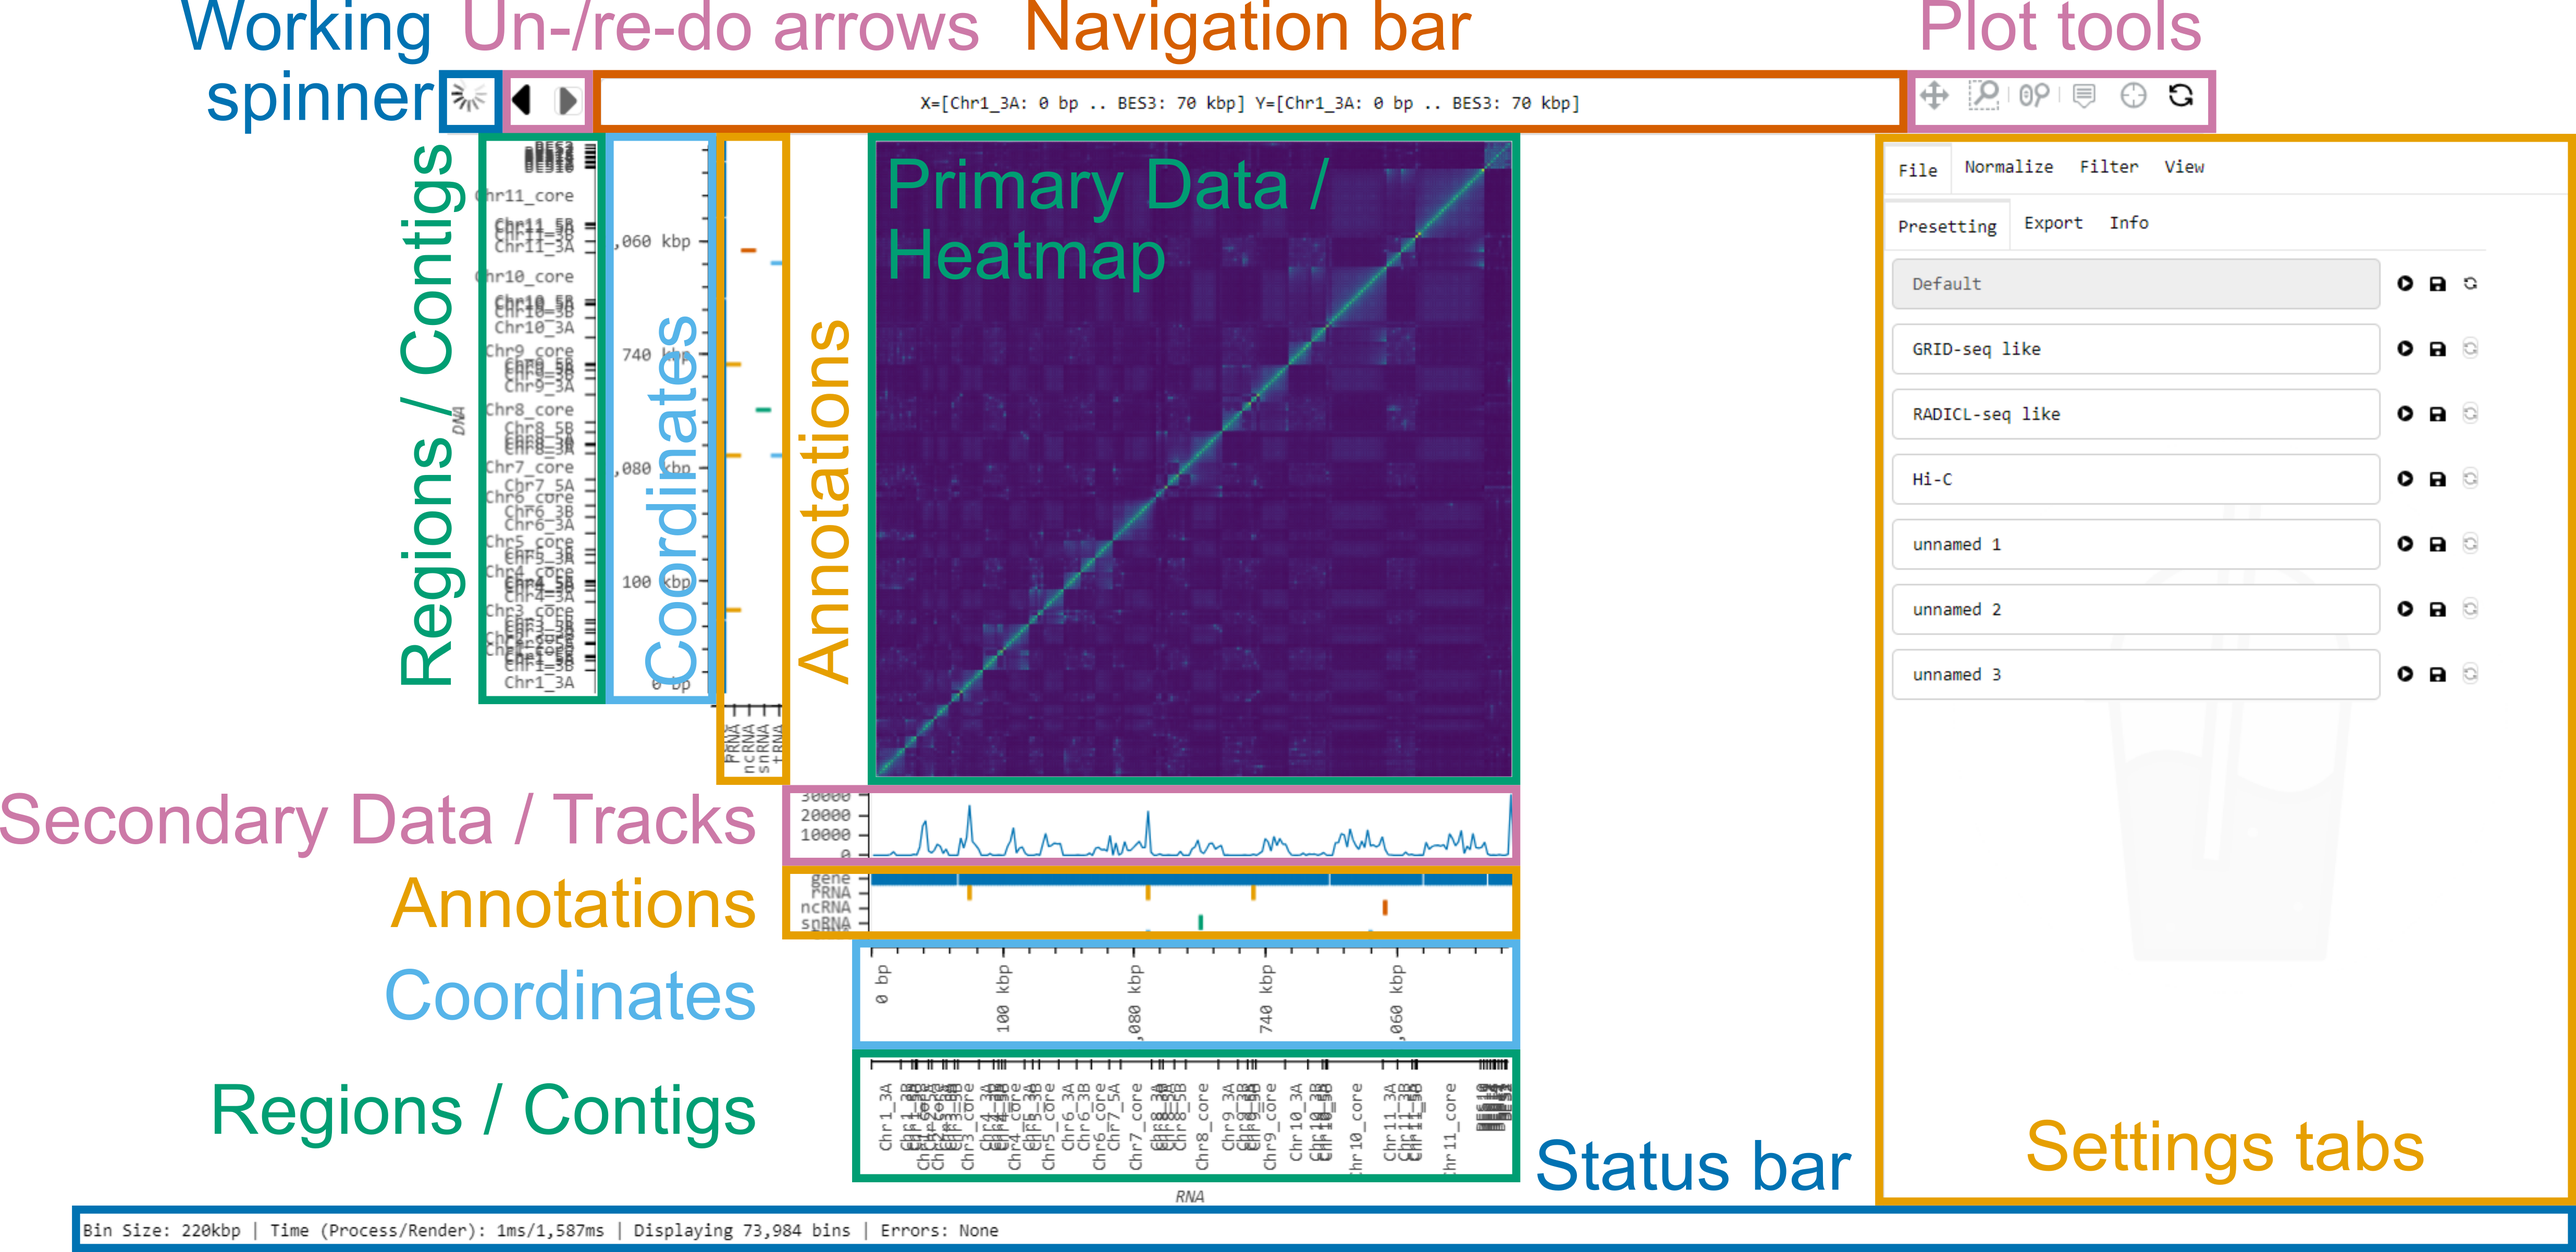
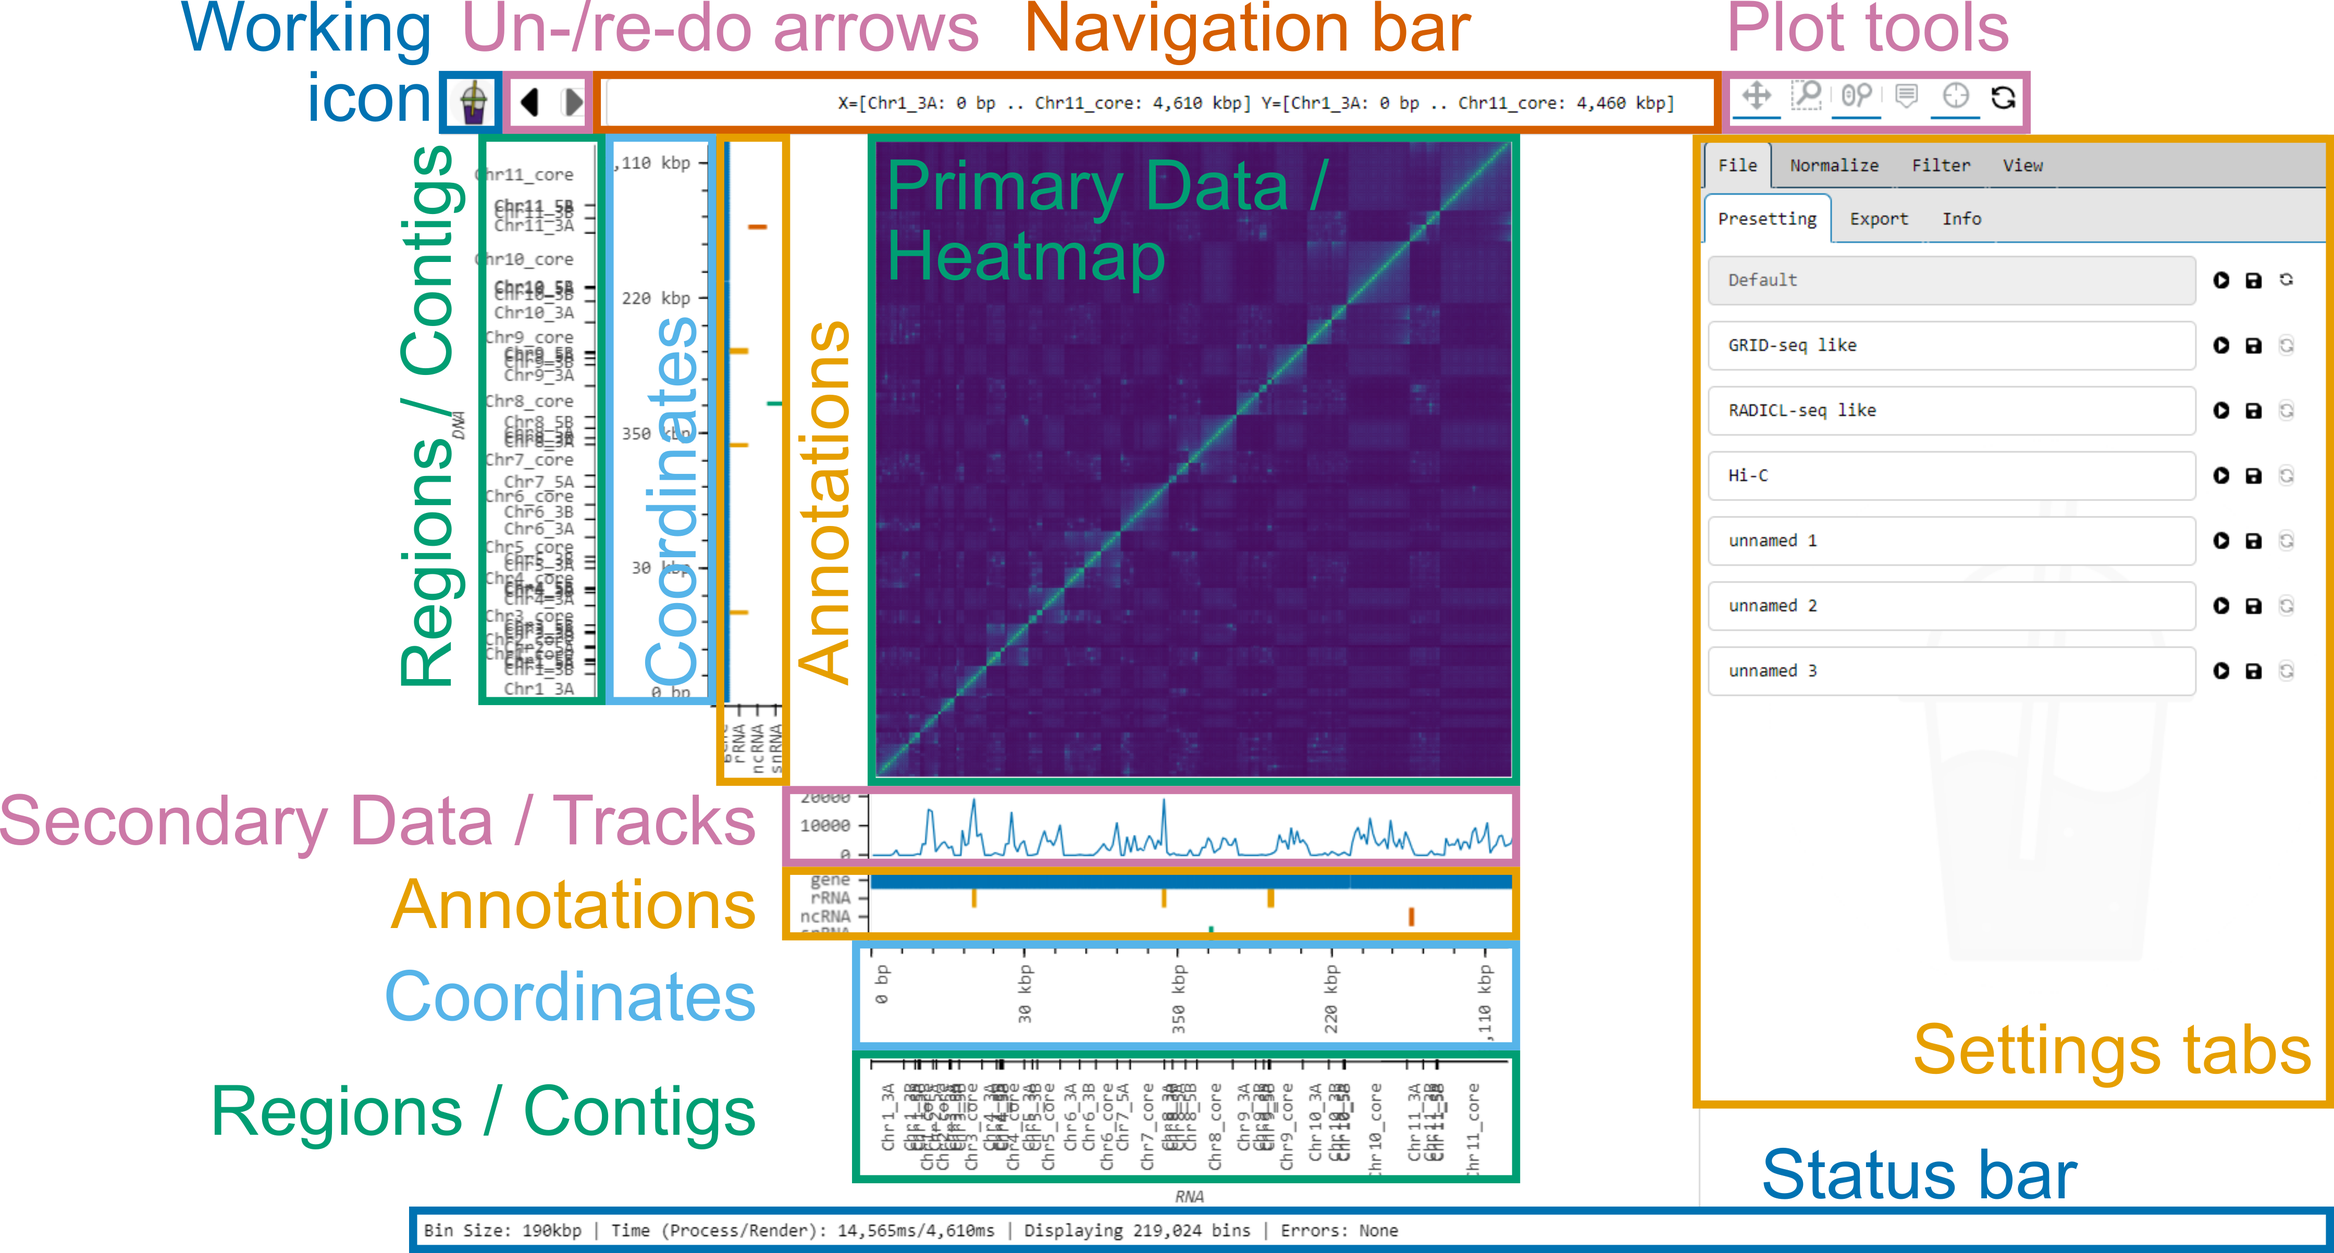
intermediate

diff --git a/biosmoother/static/css/styles.css b/biosmoother/static/css/styles.css
@@ -203,7 +203,6 @@ button {
     outline: 0;
     font-family: Consolas, 'Courier New', monospace !important;
     font-size: 11px !important;
-    cursor: pointer;
     border: solid;
     border-width: 1px;
     border-top-right-radius: 5px;
@@ -233,19 +232,19 @@ button {
 }
 
 .tab-header-1 {
-    background-color: #e5e5e5;
+    background-color: #cccccc;
 }
 .tab-header-2 {
-    background-color: #f2f2f2;
+    background-color: #e5e5e5;
 }
 .tab-header-3 {
-    background-color: #f2f2f2;
+    background-color: #e5e5e5;
 }
 
 .tab-button-active.tab-level-1 {
     border-color: #002f4d;
-    border-bottom-color: #f2f2f2;
-    background-color: #f2f2f2;
+    border-bottom-color: #e5e5e5;
+    background-color: #e5e5e5;
 }
 .tab-button-active.tab-level-2 {
     border-color: #0072b1;
@@ -262,6 +261,7 @@ button {
 .tab-button:hover:not(.tab-button-active):not(.tab-button-fill):not(.tab-button-spacer){
     background-color: white;
     font-weight: 900;
+    cursor: pointer;
 }
 
 label, input[type="radio"], input[type="checkbox"] {

diff --git a/biosmoother/bin/main_layout.py b/biosmoother/bin/main_layout.py
@@ -1531,6 +1531,7 @@ class MainLayout:
         self.chrom_layout = None
         self.chrom_layout_ploidy = None
         self.ploidy_file_in = None
+        self.ploidy_last_uploaded_filename = None
         self.next_element_id = 0
         self.download_session = None
 
@@ -2357,12 +2358,22 @@ class MainLayout:
             disabled=bin.global_variables.no_save
         )
 
+        self.ploidy_last_uploaded_filename = Div(text="No ploidy file has been uploaded yet.")
+        if len(self.session.get_value(["settings", "normalization", "ploidy_last_uploaded_filename"])) > 0:
+            self.ploidy_last_uploaded_filename.text = "Last uploaded ploidy file: " + self.session.get_value(["settings", "normalization", "ploidy_last_uploaded_filename"])
+
+        def ploidy_file_name_change(a, o, n):
+            self.ploidy_last_uploaded_filename.text = "Last uploaded ploidy file: " + n
+            self.session.set_value(["settings", "normalization", "ploidy_last_uploaded_filename"], n)
+
         def ploidy_file_upload(a, o, n):
             self.session.set_ploidy_itr(b64decode(n).decode("utf-8").split("\n"))
             self.update_visibility()
             self.trigger_render()
 
+        self.ploidy_file_in.on_change("filename", ploidy_file_name_change)
         self.ploidy_file_in.on_change("value", ploidy_file_upload)
+        
 
         is_l = self.make_slider_spinner(
             width=SETTINGS_WIDTH,
@@ -3353,6 +3364,7 @@ class MainLayout:
                 ploidy_remove_others,
                 Div(text="replace ploidy file:"),
                 self.ploidy_file_in,
+                self.ploidy_last_uploaded_filename,
             ],
         )
         self.make_panel(

diff --git a/Manual.md b/Manual.md
@@ -160,7 +160,7 @@ The raw read files are mapped to the reference genome using bwa mem.
 Find ligation junctions and make pairs file using `pairtools parse` with the following options:
 - `--drop-sam`: drop the sam information
 - `--min-mapq 0`: do not filter by mapping quality
-- `--add-columns mapq`,XA: add columns for mapping quality and alternative alignments
+- `--add-columns mapq,XA`: add columns for mapping quality and alternative alignments
 - `--walks-policy mask`: mask the walks (WW, XX, N*) in the pair_type column
 
 ```
@@ -339,7 +339,7 @@ To allow multiple users to use Smoother at the same time, you can use a differen
 Since Smoother is a web application, it can be set up as a webserver. This allows multiple users to access Smoother at the same time. To do this, you can use the `--keep_alive`, and `--no_save` options, so that Smoother does not shutdown once one user leaves and does not save the changes made by one user for the next user. To allow other machines connecting to the server, you have to configure the `--allow-websocket-origin` option. For example, to allow connections from any machine, you can use the following command: `--allow-websocket-origin=*`.
 
 
-.. index:: Show / Hide, Working spinner, Coordinate axis, Regions axis
+.. index:: Show / Hide, Working icon, Coordinate axis, Regions axis
 
 ## Overview of Smoother's interface
 
@@ -349,20 +349,25 @@ Since Smoother is a web application, it can be set up as a webserver. This allow
 </figure>
 
 Smoother's interface consists of several panels:
-- *Working spinner*: Visible, while Smoother is computing a new heatmap.
-- *Un-/re-do arrows*: Click to undo or redo changes.
-- *Navigation bar*: Displays the currently visible region and allows to jump to a region of interest.
-- *Plot tools*: Allows toggling ways to interact with the plots.
-- *Primary data*: Displays the heatmap.
-- *Secondary data*: Displays the coverage tracks.
-- *Annotations panel*: Displays the annotations.
-- *Coordinate axis*: Displays the coordinates within the contigs.
-- *Regions axis*: Displays the contigs.
-- *Status bar*: Displays the current status of Smoother.
-- *Settings tabs*: Allows changing the on-the-fly analysis parameters of Smoother.
+
+<ul>
+<li> <em>Working icon</em>: Displays the current status. </li>
+<li> <em>Un-/re-do arrows</em>: Click to undo or redo changes. </li>
+<li> <em>Navigation bar</em>: Displays the currently visible region and allows to jump to a region of interest. </li>
+<li> <em>Plot tools</em>: Allows toggling ways to interact with the plots. </li>
+<li> <em>Primary data</em>: Displays the heatmap. </li>
+<li> <em>Secondary data</em>: Displays the coverage tracks. </li>
+<li> <em>Annotations panel</em>: Displays the annotations. </li>
+<li> <em>Coordinate axis</em>: Displays the coordinates within the contigs. </li>
+<li> <em>Regions axis</em>: Displays the contigs. </li>
+<li> <em>Status bar</em>: Displays the current status of Smoother. </li>
+<li> <em>Settings tabs</em>: Allows changing the on-the-fly analysis parameters of Smoother. </li>
+</ul>
 
 Panels can be shown and hidden using the :kbd:`View->Panels` :guilabel:`Show / Hide` dropdown menu.
 The Annotation and the Secondary data panel hide themselves automatically if they do not contain data.
+
+ <p> Smoothers status can be one of three things. Working: <img src="./biosmoother/static/stirring.gif" width=20px>, error: <img src="./biosmoother/static/error.png" width=20px>, waiting: <img src="./biosmoother/static/favicon.png" width=20px>.</p>
 
 On the right-hand side of the interface, there are several tabs with buttons and sliders. These can be used to change several analysis parameters on-the-fly.
 
